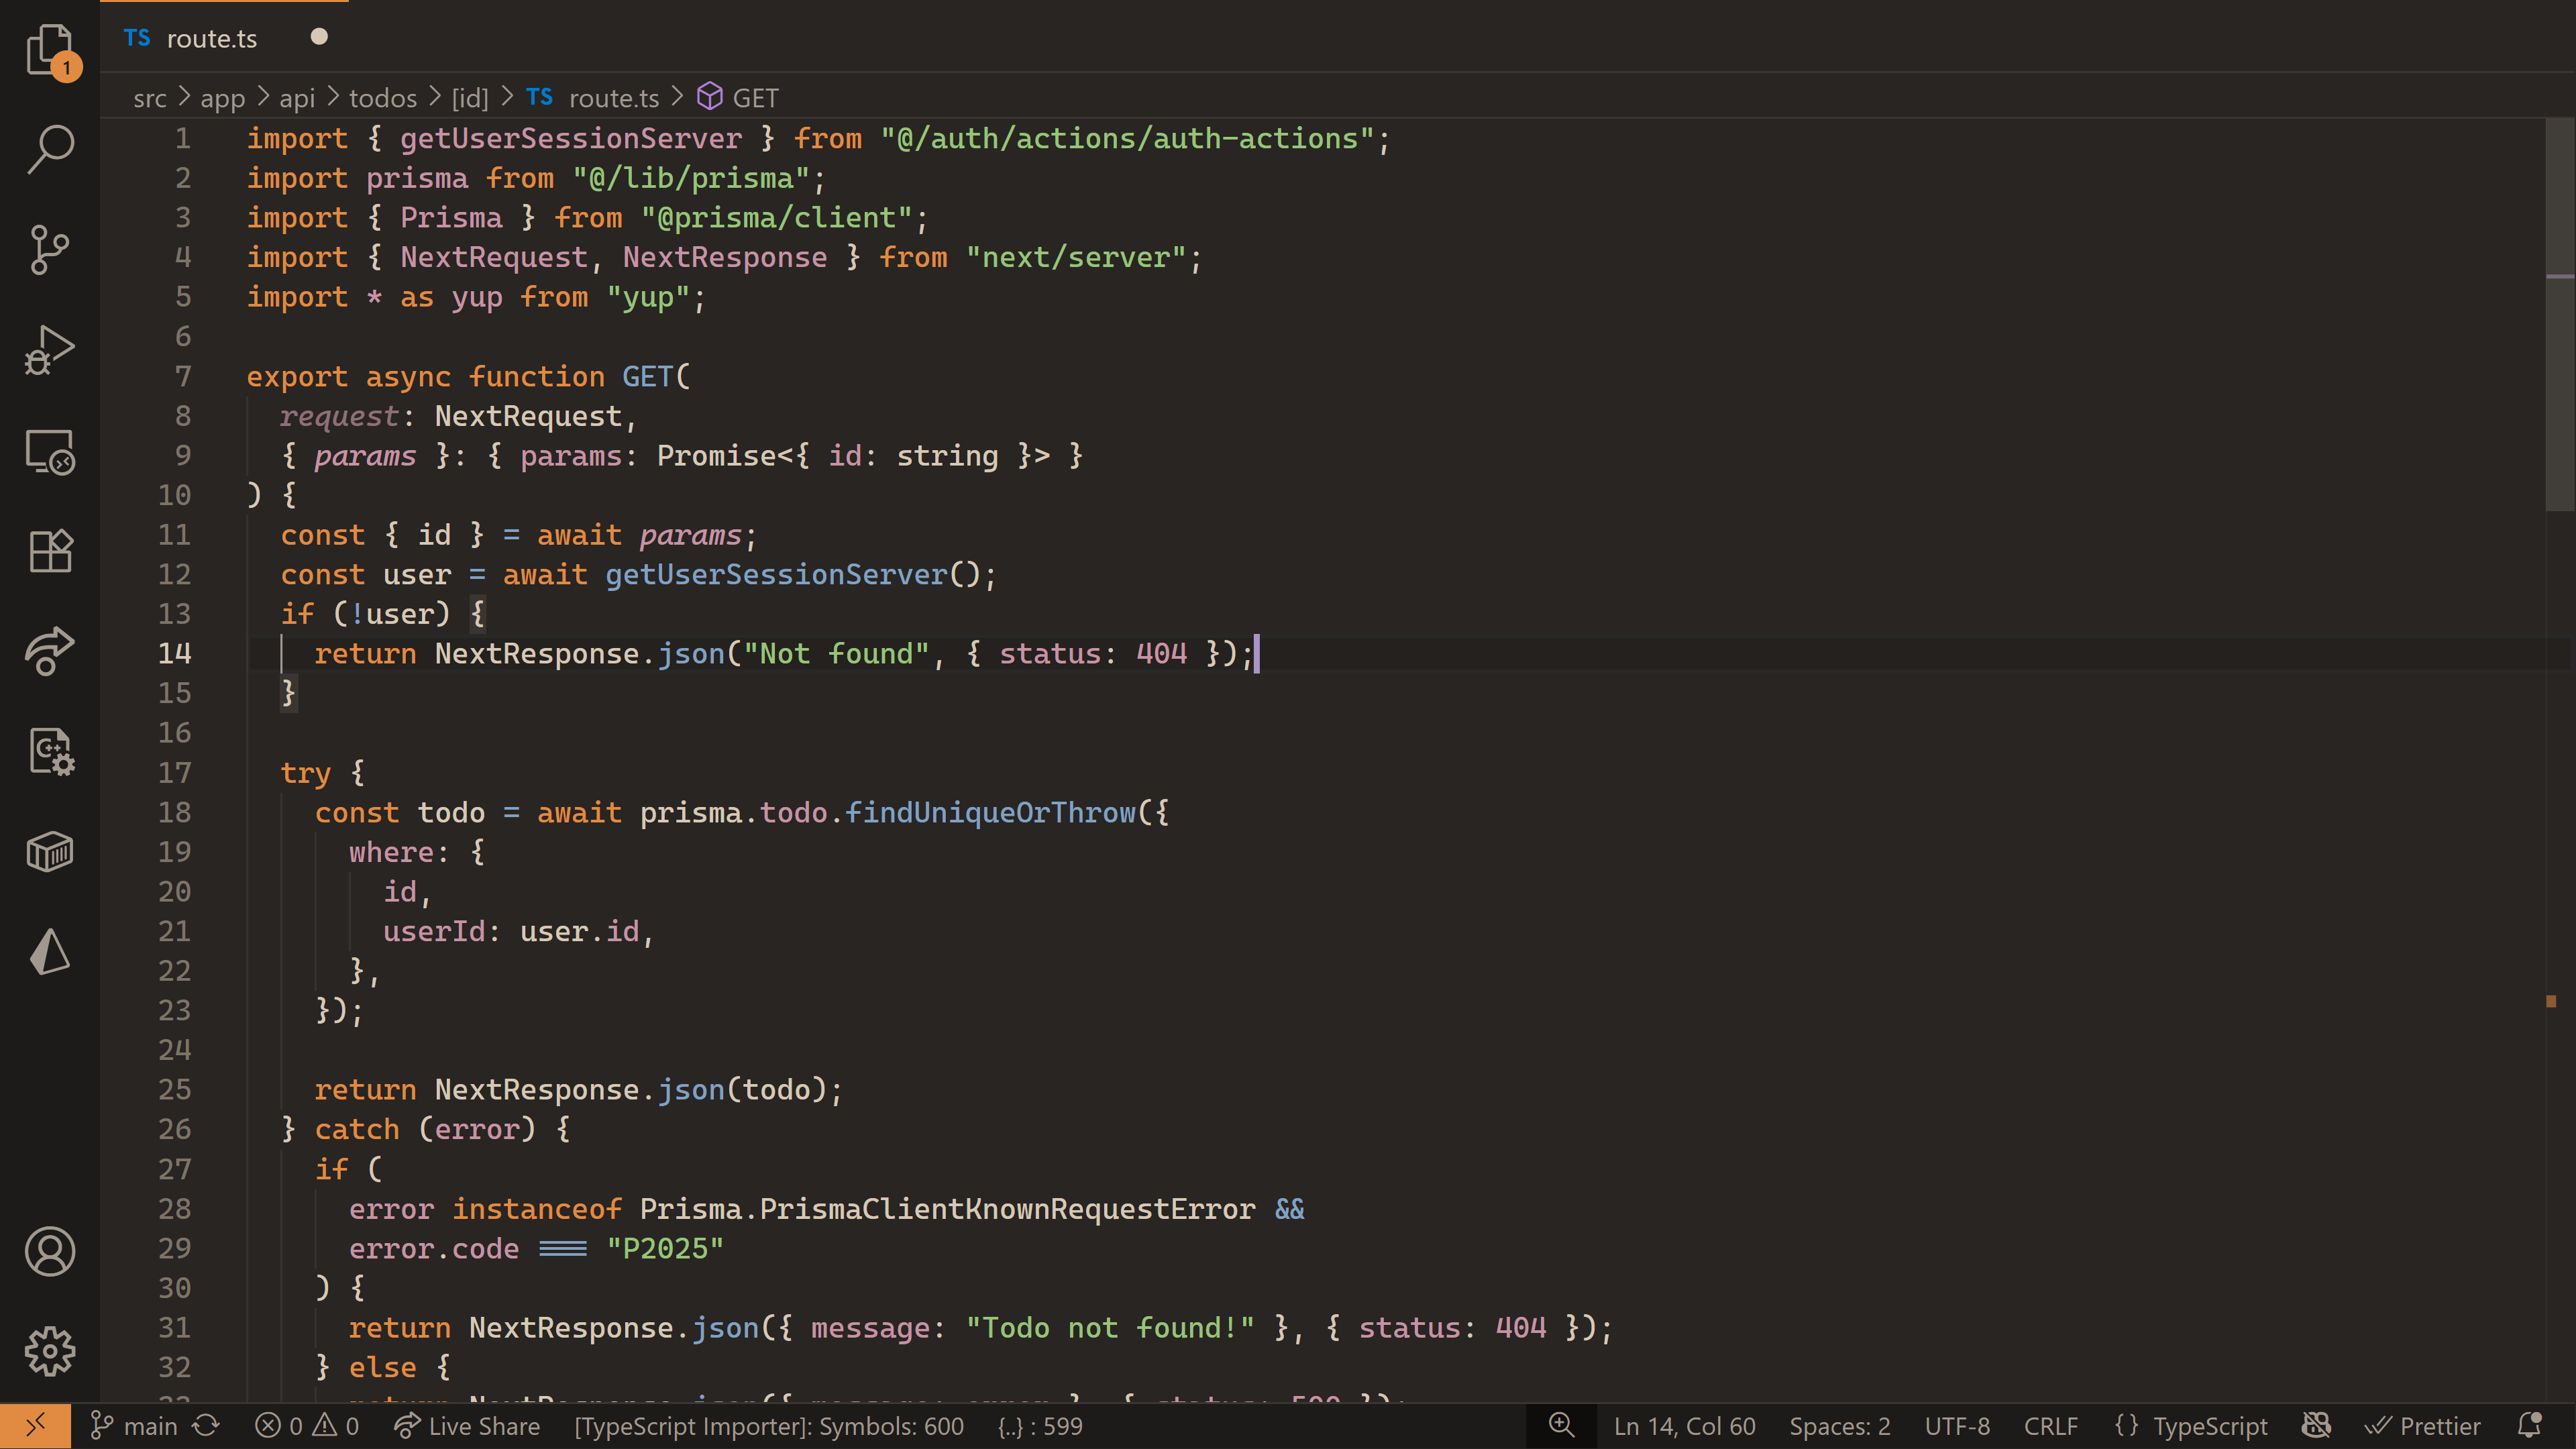
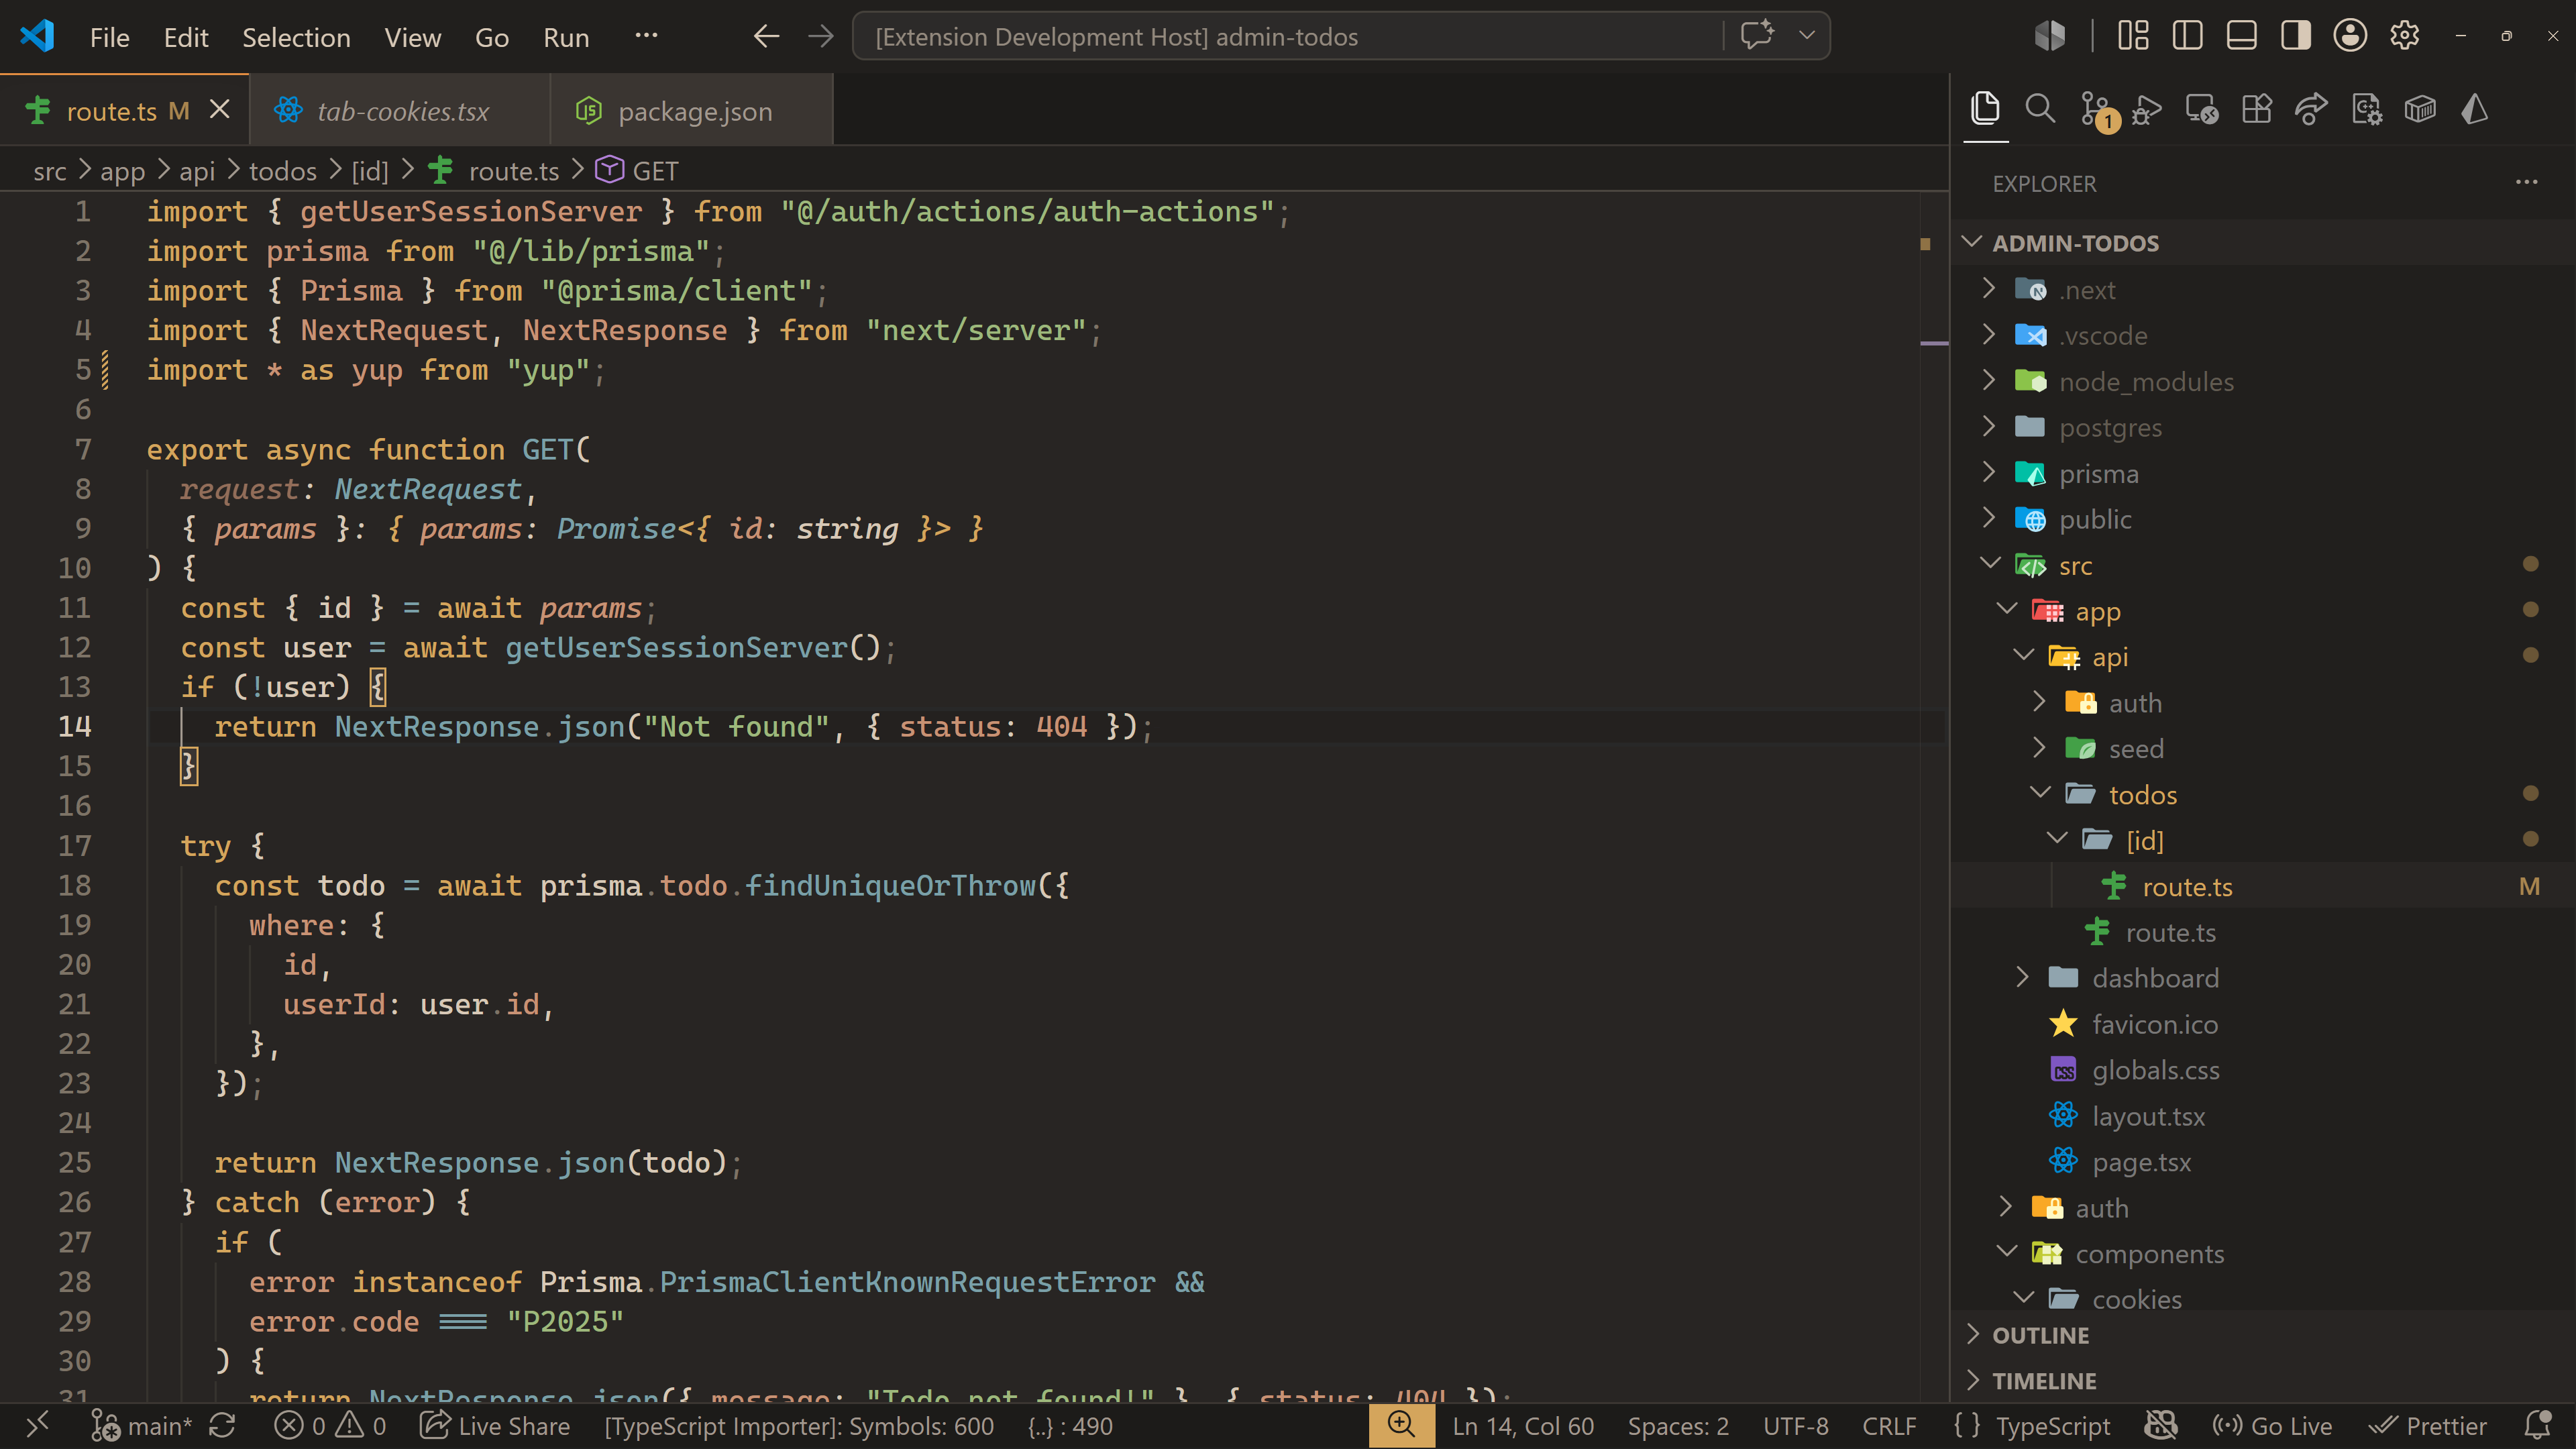
Update README and CHANGELOG to reflect theme enhancements and palette adjustments

diff --git a/README.md b/README.md
@@ -1,11 +1,82 @@
 <div align="center">
+
 <img alt="Calming Coding Logo" src="media/icon.png" width="128">
-<h1 align="center">Calming Coding</h1>
-<p>A beauty and calming Visual Studio Code theme for your coding sessions.</p>
-</div>
+
+# Calming Coding
+
+**A warm, low-saturation dark Visual Studio Code theme for long, calming coding sessions.**
+
+A single dark theme built around a brown-and-cream base, a honey-mustard accent reserved for focus, and a fully warm palette of sage, clay, teal and coral for syntax. Designed to be easy on the eyes during long sessions without the "muddy" feeling that low-contrast themes can give to code.
 
 <img src="media/editor-view.png" alt="Calming Coding Theme applied to the VS Code editor">
 
+</div>
+
+---
+
+## Highlights
+
+- **Fully warm palette.** Brown and cream surfaces, a single honey-mustard accent reserved for focus, and four living warm tones (sage, clay, teal, coral) for syntax. No cold purples, no icy blues, no neon.
+- **Designed for long sessions.** Low contrast between adjacent surfaces (so your eyes don't jump), high contrast between syntax roles (so the code still reads), and a dedicated overlay tone for popups so they feel like popups.
+- **Comprehensive language coverage.** 495 token rules covering Python, JavaScript / TypeScript, Go, Rust, PHP, Java, Kotlin, C#, C / C++, Ruby, SQL, HTML, CSS / SCSS / Less, JSON, YAML, Markdown, Shell / Bash, Dockerfile, TOML, Prisma, and Zod.
+- **Framework-aware.** Native rules for React, Next.js, Vue, Angular, Svelte, Astro, Django, Laravel / Blade, Express, NestJS, Spring, Rails, Tailwind, Prisma, and Zod — so the syntax you actually write is colored the way you expect.
+- **Accessible.** Every accent color clears WCAG AA 4.5:1 against the editor background; the focus ring and primary button clear it on every supported surface.
+- **Whole-editor coverage.** Tokens for editor widgets, hover, suggest, peek view, notifications, terminals, notebooks, testing, debug, inlay hints, sticky scroll, inline edit, lightbulb, multi-root tabs, and more — so the theme doesn't fall back to default Dark+ in any view.
+
+## The palette
+
+| Role | Color | Hex | Used for |
+|---|---|---|---|
+| Editor background | warm brown | `#282523` | The main code surface |
+| Sidebar / panel | deeper brown | `#211F1D` | Explorer, panels |
+| Titlebar / statusbar | deepest brown | `#1C1B19` | Top and bottom bars |
+| Overlay | between surface and editor | `#2A2723` | Hover, suggest, peek view, notifications |
+| Elevated | lighter brown | `#3A3531` | Active rows, inactive tabs, menus |
+| Cream | warm off-white | `#D7C8B6` | Default text, primitive types |
+| **Sage** | alive olive-green | `#9DB87C` | Strings |
+| **Clay** | warm terracotta | `#C89274` | Variables, properties, JSX tags, JSON keys, numbers |
+| **Teal** | warm cyan-green | `#7AA0A8` | Functions, info, named entities (classes, namespaces) |
+| **Ambar** | rich honey | `#D4A55C` | Keywords, accents, primary button |
+| **Coral** | soft warm red | `#E58575` | Errors |
+| Focus pumpkin | vibrant orange | `#E08B41` | Focus ring, active tab top border (focus only) |
+| Cursor lavender | soft lavender | `#B49FCC` | Cursor only — the single cool focal point |
+
 ## Installation
 
-Install the theme from [Microsoft's MarketPlace.](https://marketplace.visualstudio.com/items?itemName=CalmingCoding.calming-coding)
+### From the Visual Studio Marketplace
+1. Open Visual Studio Code.
+2. Open the Extensions panel (`Ctrl+Shift+X` / `Cmd+Shift+X`).
+3. Search for **Calming Coding**.
+4. Click **Install** on the [Calming Coding extension](https://marketplace.visualstudio.com/items?itemName=CalmingCoding.calming-coding).
+5. Open the Command Palette (`Ctrl+Shift+P` / `Cmd+Shift+P`) and run **Preferences: Color Theme**.
+6. Select **Calming Coding Dark**.
+
+## Language support
+
+The theme ships with rules for the following languages and frameworks out of the box:
+
+| Languages | Frameworks |
+|---|---|
+| Python | React, Next.js |
+| JavaScript, TypeScript, JSX, TSX | Vue, Nuxt |
+| Go | Angular |
+| Rust | Svelte, SvelteKit |
+| PHP | Astro |
+| Java, Kotlin, C#, C, C++ | Django, Flask, FastAPI |
+| Ruby on Rails | Laravel / Blade |
+| SQL (DML / DDL / DCL / TCL) | Express, NestJS |
+| HTML, CSS, SCSS, Less | Spring |
+| JSON, YAML, TOML, XML | Tailwind CSS |
+| Markdown | Prisma, TypeORM |
+| Shell / Bash, Dockerfile | Zod, Yup, Joi |
+|  | Pydantic, SQLAlchemy |
+
+If a language is not listed, the theme still falls back gracefully to the default warm tones, but installing the corresponding VS Code extension (e.g. **Python**, **rust-analyzer**, **PHP Intelephense**, **Volar**, **Prisma**) unlocks the most accurate scope-based coloring.
+
+## License
+
+[MIT](LICENSE) © tianrodez
+
+## Contributing
+
+Issues and pull requests are welcome at [github.com/tianrodez/calming-coding](https://github.com/tianrodez/calming-coding). For larger changes (new token rules, new languages), please open an issue first to discuss.

diff --git a/CHANGELOG.md b/CHANGELOG.md
@@ -39,9 +39,9 @@ Check [Keep a Changelog](http://keepachangelog.com/) for how to structure this f
   - `welcomePage.*`, `toolbar.*`, `scm.providerBorderColor`.
 
 ### Notes
-- Theme still does not declare a light variant; the user requested only the dark theme for this iteration.
+- This release ships only a dark theme.
 
-### Refined (post-review)
+### Refined (visual polish)
 - Menu selection (`menu.selectionBackground` / `menu.selectionForeground`) changed from a low-contrast dark brown (`#6E4A28` / `#D7C8B6`, ~1.2:1) to the calm mustard with dark text (`#C9A36A` / `#1C1B19`, ~7.3:1) so the active menu item is immediately visible. Same treatment as `list.focusBackground` / `list.focusForeground` for consistency.
 - `icon.foreground` moved from cream (`#D7C8B6`) to muted (`#A1988E`) so the title-bar utility icons (Extensions, Account, Settings, etc.) stop competing with the actual title text.
 - `tab.border` changed from transparent to a subtle `#4A453F` to draw a minimal separator between adjacent inactive tabs (most useful when several tabs are open at the same size).
@@ -78,37 +78,29 @@ Six color roles were refreshed to give the theme a more alive-but-still-calming 
 
 | Role | Before | After | Character |
 |---|---|---|---|
-| Strings (green) | `#98C379` (lime apagado) | `#88C9A0` | Menta viva, menos amarillo muerto |
-| Variables / properties / JSX tags / JSON keys / numbers (mauve) | `#C593A4` (rosa polvo) | `#C2A5D9` | Lavanda suave — sin subtono rosa enfermizo |
-| Functions / info / operators (blue) | `#81A1C1` (Nord Frost) | `#88B8D4` | Cielo cálido, en familia con la paleta cálida |
-| Keywords / accent / button / warnings (mustard) | `#C9A36A` (mostaza calm) | `#D4A55C` | Ambar miel — la estrella cálida que da vida |
-| Errors (red) | `#DD6F6F` (rojo plano) | `#E58575` | Coral menos agresivo, más armónico |
-| Button hover (derived) | `#B89055` | `#C49840` | Ambar más profundo, feedback claro |
+| Strings (green) | `#98C379` | `#88C9A0` | Mint, less stale yellow |
+| Variables / properties / JSX tags / JSON keys / numbers (mauve) | `#C593A4` | `#C2A5D9` | Soft lavender — no dusty rose |
+| Functions / info / operators (blue) | `#81A1C1` | `#88B8D4` | Warm sky blue, in family with the warm palette |
+| Keywords / accent / button / warnings (mustard) | `#C9A36A` | `#D4A55C` | Honey amber — the warm star of the palette |
+| Errors (red) | `#DD6F6F` | `#E58575` | Less aggressive coral, more harmonious |
+| Button hover (derived) | `#B89055` | `#C49840` | Deeper amber, clear feedback |
 
-#### Concrete impact on the three previously reported issues
-- **`package.json` looked "dead"**: property keys used to be the dusty pink mauve. They are now lavender and instantly read as "identifier". The caret-prefixed version strings (also lavender) get a clean three-way contrast against the mint version paths and the cream punctuation.
-- **The "Forward a Port" button looked "pale"**: the button was using the calm mustard. With the new honey amber it now reads as warm and inviting, while the dark `#1C1B19` label still scores 7.65:1 (WCAG AA easily).
-- **The TSX code looked "muddy"**: JSX tags and property names were the same dead pink as JSON keys. They are now lavender; combined with the new mint strings and the new sky-blue function calls, the code gets a clear three-color rhythm (lavender + mint + cream) instead of one big block of pink.
-
-#### Verification
-- All five new accent colors keep WCAG AA 4.5:1 against the editor background `#282523` (range 5.76:1 → 7.91:1, well above the threshold).
 - Focus ring (`#E08B41`, 5 keys), cursor (`#B49FCC`), cream text (`#D7C8B6`), all background browns and all muted/border tones remain unchanged.
 - Total replacements: 491 hex tokens across the file; all old hex values have 0 occurrences after the change. No structural changes — same 368 color keys, same 489 token rules.
-- `package.json` version stays at `1.1.0` (no version bump yet, as requested).
+- Version stays at `1.1.0`.
 
 ### Refined (palette refresh v2 — fully warm, no lavender)
-After reviewing the result on real TSX/TS code, the lavender (`#C2A5D9`) used for variables / properties / JSX tags / JSON keys / numbers felt too cold against the warm brown base. The user asked to drop it entirely, and gave freedom to redesign any color that doesn't fit. The palette is now **100% warm** — no purple, no mauve, no pink, no icy blue.
+The lavender (`#C2A5D9`) used for variables / properties / JSX tags / JSON keys / numbers felt too cold against the warm brown base. The palette is now **100% warm** — no purple, no mauve, no pink, no icy blue.
 
 | Role | Before (v1) | After (v2) | Character |
 |---|---|---|---|
-| Variables / properties / JSX tags / JSON keys / numbers | `#C2A5D9` lavender | **`#C89274`** | Clay / terracotta — warm, sin nada de púrpura |
-| Strings | `#88C9A0` mint | **`#9DB87C`** | Salvia / oliva — más terrosa, en familia con la paleta |
-| Functions / info / operators | `#88B8D4` sky blue | **`#7AA0A8`** | Teal terroso — cálido, ni siquiera azul |
-| Keywords / accent / button | `#D4A55C` honey amber | `#D4A55C` | Sin cambio — ya era el ancla cálida |
-| Errors | `#E58575` coral | `#E58575` | Sin cambio — sigue armónico |
-| Hover derivado | `#C49840` | `#C49840` | Sin cambio |
+| Variables / properties / JSX tags / JSON keys / numbers | `#C2A5D9` lavender | **`#C89274`** | Clay / terracotta — warm, with no purple undertone |
+| Strings | `#88C9A0` mint | **`#9DB87C`** | Sage / olive — more earthy, in family with the palette |
+| Functions / info / operators | `#88B8D4` sky blue | **`#7AA0A8`** | Earthy teal — warm, not even blue |
+| Keywords / accent / button | `#D4A55C` honey amber | `#D4A55C` | Unchanged — already the warm anchor |
+| Errors | `#E58575` coral | `#E58575` | Unchanged — stays harmonious |
+| Hover derivado | `#C49840` | `#C49840` | Unchanged |
 
-#### New palette personality
 - **Salvia `#9DB87C`** (strings) — alive olive, evokes a fresh garden.
 - **Clay `#C89274`** (variables, JSX, JSON keys, numbers) — terracotta-like, the "earth" tone of the palette.
 - **Teal `#7AA0A8`** (functions, info) — warm cyan-green, not icy, brings a touch of sea without being cold.
@@ -116,24 +108,16 @@ After reviewing the result on real TSX/TS code, the lavender (`#C2A5D9`) used fo
 - **Coral `#E58575`** (errors) — warm red, never alarmist.
 - Cursor (`#B49FCC`) and focus pumpkin (`#E08B41`) intentionally stay cool/warm-bright as the only two "punctum" colors that aren't part of the syntax family.
 
-#### Concrete impact on the TSX screenshot
-- JSX tags (`<Tabs>`, `<TabsList>`, `<TabsTrigger>`, `<TabsContent>`): from **dead lavender** to **warm clay** — they read as "tags" without standing out coldly.
-- Property names (`defaultValue`, `onValueChange`, `className`, `currentTab`, `tabOptions`): from **lavender** to **clay** — same harmony as the JSX tags.
-- Strings (`"../ui/tabs"`, `'cookies-next/client'`, `"1"`, `"one"`, `"selectedTab"`): from **mint** to **salvia** — slightly more olive, less "cool", better with the warm family.
-- Function calls (`setCookie`): from **sky blue** to **teal terroso** — still "info" but no longer cold.
-- Keywords (`import`, `from`, `interface`, `export`, `function`, `return`): stay in **ambar** (the only "control" warm color) — clearly the warmest of the syntax roles.
-
-#### Verification
 - All new accent colors keep WCAG AA 4.5:1 against the editor background `#282523`:
-  - salvia 6.95:1, clay 5.67:1, teal 5.38:1, ambar 6.77:1, coral 5.76:1, hover 5.74:1.
+  salvia 6.95:1, clay 5.67:1, teal 5.38:1, ambar 6.77:1, coral 5.76:1, hover 5.74:1.
 - All five background browns verified as visually warm (R ≥ G ≥ B).
 - Total replacements this round: 250 hex tokens (`#88C9A0` × 43, `#C2A5D9` × 118, `#88B8D4` × 89). All old hex values now have 0 occurrences. No structural changes — same 368 color keys, same 489 token rules.
-- `package.json` version stays at `1.1.0` (no version bump yet, as requested).
+- Version stays at `1.1.0`.
 
 ### Refined (class names get a distinct color)
-In the previous round, class names (`entity.name.class`, `entity.name.type`, `entity.name.namespace`, `entity.name.type.namespace`, `entity.name.type.class`, `support.class`, `entity.other.inherited-class`, and the language-specific built-in classes) were still rendered in cream (`#D7C8B6`), which is the same color as regular text. This made class identifiers disappear in code like `Prisma.PrismaClientKnownRequestError` or `NextRequest` — the user reported that "se pierde el color de esa clase".
+Class names (`entity.name.class`, `entity.name.type`, `entity.name.namespace`, `entity.name.type.namespace`, `entity.name.type.class`, `support.class`, `entity.other.inherited-class`, and the language-specific built-in classes) were still rendered in cream (`#D7C8B6`), the same color as regular text. This made class identifiers disappear in code like `Prisma.PrismaClientKnownRequestError` or `NextRequest` — the "color of the class was lost" against the regular text.
 
-The user wants cream for regular text (they like it), but wants **class names to stand out** from cream. The natural color for that role, given the rest of the warm palette, is the existing **teal** `#7AA0A8` — the same color used for function names. This makes "named entities" (functions and classes) share a single warm-blue color, distinct from the cream text, the ambar keywords, the clay variables, and the salvia strings.
+The natural color for that role, given the rest of the warm palette, is the existing **teal** `#7AA0A8` — the same color used for function names. This makes "named entities" (functions and classes) share a single warm-blue color, distinct from the cream text, the ambar keywords, the clay variables, and the salvia strings.
 
 #### Changes
 - 13 existing rules had their foreground moved from cream `#D7C8B6` to teal `#7AA0A8`:
@@ -160,7 +144,7 @@ The user wants cream for regular text (they like it), but wants **class names to
 - Final token count: 495 (was 489). Final color count: 368 (unchanged).
 - The 3 combined "Java/Kotlin/C# type" rules now have shorter scopes (no built-in class part). Built-in types like `String`, `Object`, `Array`, `List` now use teal through dedicated rules, so they no longer "leak" through the primitive-type rules.
 - WCAG AA contrast for teal `#7AA0A8` on editor bg `#282523` remains 5.38:1.
-- `package.json` version stays at `1.1.0`.
+- Version stays at `1.1.0`.
 
 ## [1.0.0] - 2025-XX-XX
 